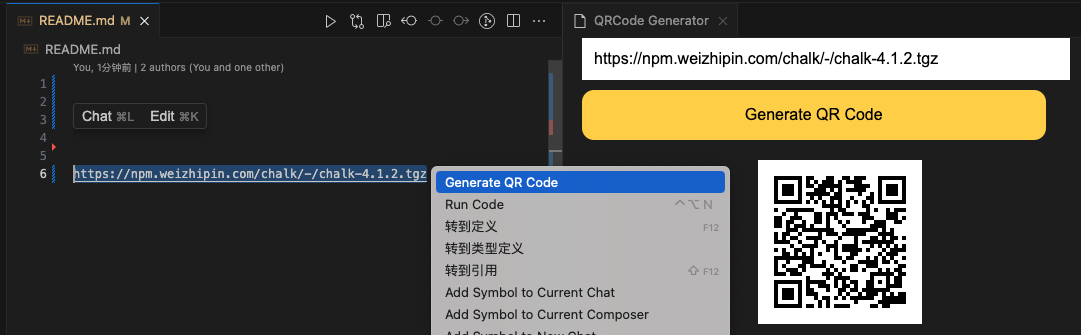
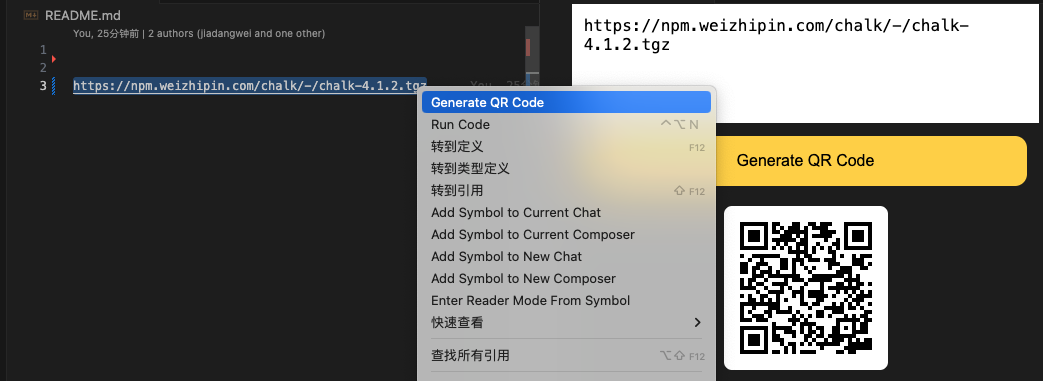
feat: provide a default url config

diff --git a/src/extension.ts b/src/extension.ts
@@ -73,9 +73,10 @@ async function generateQRCode(text: string): Promise<string> {
 
 function getWebviewContent(filePath: string, selectedText?: string) {
   // 如果有选中文本就使用选中文本，否则使用默认值
-  const defaultValue = selectedText || 'https://www.google.com';
+  const defaultValue = selectedText || vscode.workspace.getConfiguration("QRCodeGenerator").get("DefaultQRCodeUrl");
 
   console.log('filePath=====>', filePath);
+  console.log('defaultValue=====>', defaultValue);
 
   return `
     <!DOCTYPE html>
@@ -127,9 +128,13 @@ function getWebviewContent(filePath: string, selectedText?: string) {
       <script>
         const vscode = acquireVsCodeApi();
         const urlInput = document.getElementById('urlInput');
+        const qrCodeContainer = document.getElementById('qrCodeContainer');
 
         function generateQRCode() {
           const text = urlInput.value;
+          if(!text) {
+            qrCodeContainer.innerHTML = '';
+          }
           vscode.postMessage({ command: 'generateQRCode', text });
         }
 
@@ -155,7 +160,6 @@ function getWebviewContent(filePath: string, selectedText?: string) {
         window.addEventListener('message', event => {
           const message = event.data;
           if (message.command === 'showQRCode') {
-            const qrCodeContainer = document.getElementById('qrCodeContainer');
             qrCodeContainer.innerHTML = \`<img src="\${message.imagePath}" alt="QR Code" title="click to copy" onclick="copyToClipboard(this.src)" />\`;
           }
         });
@@ -168,7 +172,7 @@ function getWebviewContent(filePath: string, selectedText?: string) {
         })
 
         // 自动调用一次
-        generateQRCode();
+        "${defaultValue}" && generateQRCode();
       </script>
     </body>
     </html>

diff --git a/README.md b/README.md
@@ -1,12 +1,20 @@
 ## Usage
 
-1. Select a text and right-click to choose `Generate QR Code`, then you can see the QR code in the panel. And you can `copy` the QR code to the clipboard by clicking the QR code.
+Select a text and right-click to choose `Generate QR Code`, then you can see the QR code in the panel. And you can `copy` the QR code to the clipboard by clicking the QR code.
 
 ![](./assets/example.png)
 
-2. Hit `shift + command + p` to execute the command `Generate QR Code`.
+Or hit `shift + command + p` to execute the command `Generate QR Code`.
 
 ![](./assets/image.png)
+
+You can also set the default QRCode URL in the `settings.json` file.
+
+```json
+{
+  "QRCodeGenerator.DefaultQRCodeUrl": "https://www.baidu.com"
+}
+```
 
 ## Contact me
 
